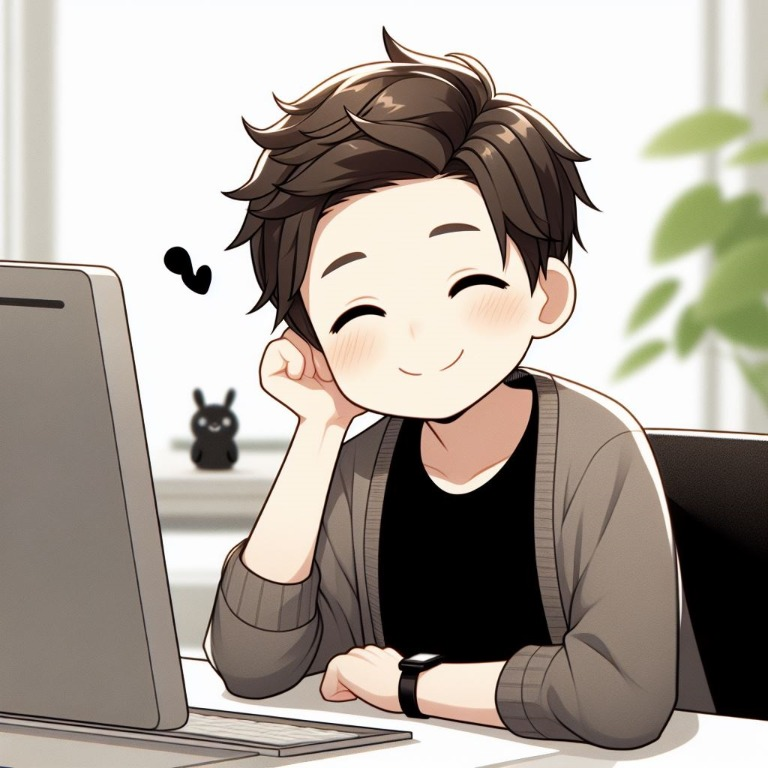
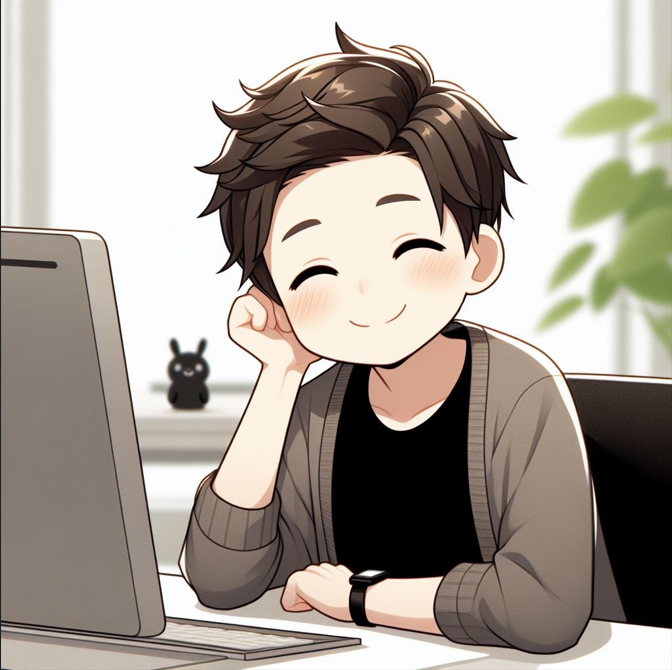
[Fix] 푸터 프로필과 소셜 링크 개선
- DX·AX 및 시뮬레이션 솔루션 개발 경험을 소개 문구에 반영
 - 프로필 이미지를 교체하고 원형 프레임 내 위치 조정
 - Notion·LinkedIn·GitHub 브랜드 SVG 아이콘 적용

diff --git a/src/App.tsx b/src/App.tsx
@@ -40,24 +40,22 @@ function SiteFooter() {
         <div className="site-footer__intro">
           <h2>Geonhui Kim</h2>
           <p>
-            산업용 시뮬레이션 프레임워크를 설계하고 개발합니다.
-            물류와 생산 공정의 흐름을 모델링하고 검증합니다.
+            4년차 솔루션 개발자로서 DX·AX 기술을 활용해 제조 산업의 디지털 혁신을 이끌고, 프론트엔드부터 백엔드까지 확장 가능한 시스템과 스마트팩토리 시뮬레이션 솔루션을 개발합니다.
           </p>
           <nav className="site-footer__contacts" aria-label="프로필 및 연락처">
             <a href="https://kkh3868.notion.site/Portfolio-59debe89a94d4552b1c5363b16657adb" target="_blank" rel="noreferrer" aria-label="Notion 포트폴리오">
-              <svg viewBox="0 0 24 24" aria-hidden="true">
-                <path d="M7 3.5h7l4 4v13H7a1 1 0 0 1-1-1v-15a1 1 0 0 1 1-1Z" />
-                <path d="M14 3.5v4h4M9 12h6M9 15.5h6M9 19h4" />
+              <svg className="site-footer__brand-icon" viewBox="0 0 24 24" aria-hidden="true">
+                <path d="M4.459 4.208c.746.606 1.026.56 2.428.466l13.215-.793c.28 0 .047-.28-.046-.326L17.86 1.968c-.42-.326-.981-.7-2.055-.607L3.01 2.295c-.466.046-.56.28-.374.466zm.793 3.08v13.904c0 .747.373 1.027 1.214.98l14.523-.84c.841-.046.935-.56.935-1.167V6.354c0-.606-.233-.933-.748-.887l-15.177.887c-.56.047-.747.327-.747.933zm14.337.745c.093.42 0 .84-.42.888l-.7.14v10.264c-.608.327-1.168.514-1.635.514-.748 0-.935-.234-1.495-.933l-4.577-7.186v6.952L12.21 19s0 .84-1.168.84l-3.222.186c-.093-.186 0-.653.327-.746l.84-.233V9.854L7.822 9.76c-.094-.42.14-1.026.793-1.073l3.456-.233 4.764 7.279v-6.44l-1.215-.139c-.093-.514.28-.887.747-.933zM1.936 1.035l13.31-.98c1.634-.14 2.055-.047 3.082.7l4.249 2.986c.7.513.934.653.934 1.213v16.378c0 1.026-.373 1.634-1.68 1.726l-15.458.934c-.98.047-1.448-.093-1.962-.747l-3.129-4.06c-.56-.747-.793-1.306-.793-1.96V2.667c0-.839.374-1.54 1.447-1.632z" />
               </svg>
             </a>
             <a href="https://www.linkedin.com/in/geonhuikim1998/" target="_blank" rel="noreferrer" aria-label="LinkedIn 프로필">
-              <svg viewBox="0 0 24 24" aria-hidden="true">
-                <path d="M5 9v10M5 5.5v.1M10 19v-6a3 3 0 0 1 6 0v6M10 10v9M4 9h2M4 19h2M10 19h2M16 19h2" />
+              <svg className="site-footer__brand-icon" viewBox="0 0 24 24" aria-hidden="true">
+                <path d="M20.447 20.452h-3.554v-5.569c0-1.328-.027-3.037-1.852-3.037-1.853 0-2.136 1.445-2.136 2.939v5.667H9.351V9h3.414v1.561h.046c.477-.9 1.637-1.85 3.37-1.85 3.601 0 4.267 2.37 4.267 5.455v6.286zM5.337 7.433c-1.144 0-2.063-.926-2.063-2.065 0-1.138.92-2.063 2.063-2.063 1.14 0 2.064.925 2.064 2.063 0 1.139-.925 2.065-2.064 2.065zm1.782 13.019H3.555V9h3.564v11.452zM22.225 0H1.771C.792 0 0 .774 0 1.729v20.542C0 23.227.792 24 1.771 24h20.451C23.2 24 24 23.227 24 22.271V1.729C24 .774 23.2 0 22.222 0h.003z" />
               </svg>
             </a>
             <a href="https://github.com/kkh3868" target="_blank" rel="noreferrer" aria-label="GitHub 프로필">
-              <svg viewBox="0 0 24 24" aria-hidden="true">
-                <path d="m8 9-3 3 3 3m8-6 3 3-3 3m-2-8-4 10" />
+              <svg className="site-footer__brand-icon" viewBox="0 0 24 24" aria-hidden="true">
+                <path d="M12 .297c-6.63 0-12 5.373-12 12 0 5.303 3.438 9.8 8.205 11.385.6.113.82-.258.82-.577 0-.285-.01-1.04-.015-2.04-3.338.724-4.042-1.61-4.042-1.61C4.422 18.07 3.633 17.7 3.633 17.7c-1.087-.744.084-.729.084-.729 1.205.084 1.838 1.236 1.838 1.236 1.07 1.835 2.809 1.305 3.495.998.108-.776.417-1.305.76-1.605-2.665-.3-5.466-1.332-5.466-5.93 0-1.31.465-2.38 1.235-3.22-.135-.303-.54-1.523.105-3.176 0 0 1.005-.322 3.3 1.23.96-.267 1.98-.399 3-.405 1.02.006 2.04.138 3 .405 2.28-1.552 3.285-1.23 3.285-1.23.645 1.653.24 2.873.12 3.176.765.84 1.23 1.91 1.23 3.22 0 4.61-2.805 5.625-5.475 5.92.42.36.81 1.096.81 2.22 0 1.606-.015 2.896-.015 3.286 0 .315.21.69.825.57C20.565 22.092 24 17.592 24 12.297c0-6.627-5.373-12-12-12" />
               </svg>
             </a>
             <a href="mailto:rjsgml198@naver.com" aria-label="이메일 보내기">

diff --git a/src/App.css b/src/App.css
@@ -1889,6 +1889,11 @@
   stroke-linejoin: round;
 }
 
+.site-footer__contacts .site-footer__brand-icon {
+  fill: currentColor;
+  stroke: none;
+}
+
 .site-footer__portrait {
   width: min(100%, 280px);
   aspect-ratio: 1;
@@ -1908,6 +1913,7 @@
   height: 100%;
   display: block;
   object-fit: cover;
+  object-position: center 45%;
   border-radius: 50%;
 }
 
